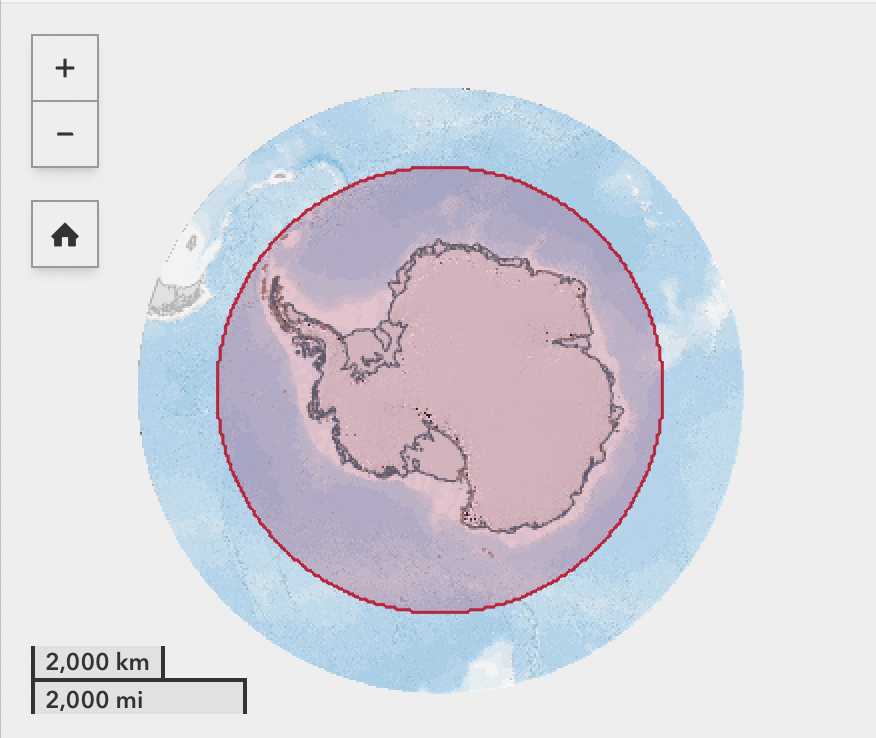
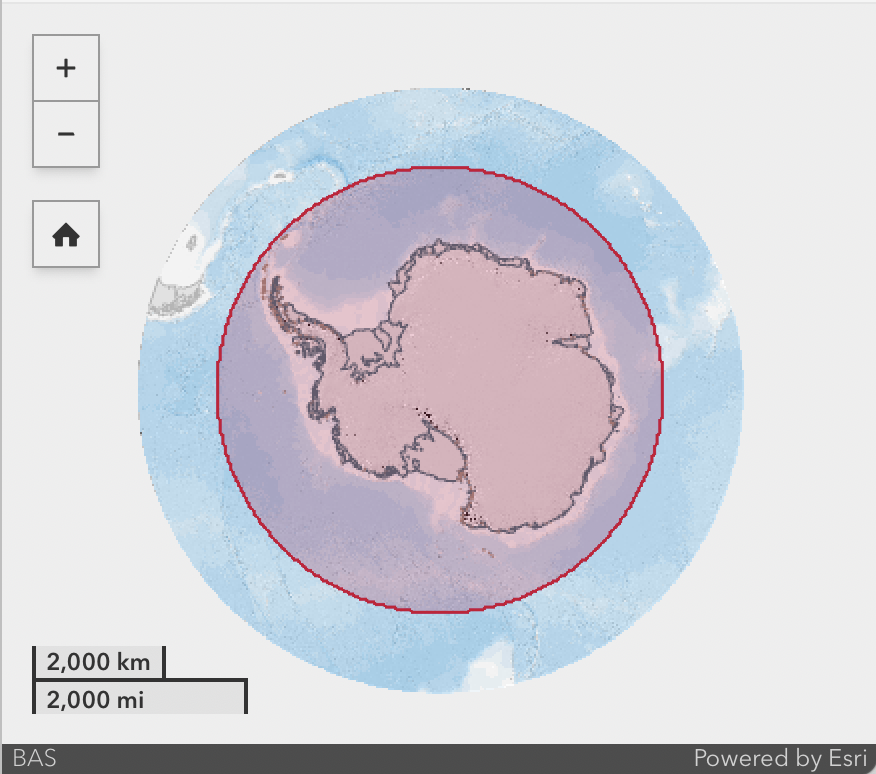
Minor docs improvements
Including updated screenshots.

diff --git a/README.md b/README.md
@@ -4,21 +4,24 @@ Embeddable maps for visualising simple features on a suitable basemap.
 
 ## Overview
 
-This service allows basic maps to be created using URL parameters. These maps:
+This service allows basic maps to be created using URL parameters.
 
-- can include a 3D locator globe
-- can include optional UI controls (such as full-screen mode)
-- can be focused on a given point, bounding box, or latest position of a BAS asset (ship, plane, etc.)
-- will use a suitable basemap for the map extent (e.g. an Antarctic stereographic basemap if in Antarctica)
-- can be embedded within other applications or websites using an iframe (to avoid large dependencies)
+Features include:
 
-|                                            |                                               |
-|--------------------------------------------|-----------------------------------------------|
-| ![example-antarctica](/docs/example-1.png) | ![example-ship-tracking](/docs/example-2.png) |
+- an optional 3D locator globe
+- optional interactive controls (such as toggling full-screen mode)
+- focusing on a given point, bounding box, or latest position of a BAS asset (ship, plane, etc.)
+- using suitable basemap and projection for the map extent (e.g. an Antarctic stereographic basemap if in Antarctica)
+- support for embedding within other applications or websites using an iframe (to avoid large dependencies)
 
-> [!TIP]
-> This service is operated by the [Mapping and Geographic Information Centre](https://www.bas.ac.uk/teams/magic) (MAGIC),
-> who provide geospatial resources, expertise and support to the [British Antarctic Survey](https://www.bas.ac.uk) (BAS).
+Examples:
+
+| ![example-antarctica](/docs/example-1.png)                                     | ![example-ship-tracking](/docs/example-2.png)                                                                              |
+|--------------------------------------------------------------------------------|----------------------------------------------------------------------------------------------------------------------------|
+| `https://embedded-maps.data.bas.ac.uk/v1/?bbox=%5B-180.0,-90.0,180.0,-60.0%5D` | `https://embedded-maps.data.bas.ac.uk/v1/?asset-id=01JDRYA29AR6PFGXVCZ40V8C74&scale=500000&globe-overview&ctrl-fullscreen` |
+
+This service is operated by the [Mapping and Geographic Information Centre](https://www.bas.ac.uk/teams/magic) (MAGIC),
+who provide geospatial resources, expertise and support to the [British Antarctic Survey](https://www.bas.ac.uk) (BAS).
 
 > [!NOTE]
 > This project is focused on needs within the British Antarctic Survey. It has been open-sourced in case it is
@@ -28,15 +31,21 @@ project members respectively. Contact the [Project Maintainer](#project-maintain
 ### Status
 
 > [!IMPORTANT]
-> This a beta service and is available for general use but may contain bugs. 
+> This a beta service and is available for general use but may contain bugs.
+>
 > We [welcome feedback](mailto:magic@bas.ac.uk) from users on how it can be made better.
 
 ## Usage
 
-The service is accessed via a URL endpoint with one or more URL parameters to specify the target location / feature /
-asset, UI controls and any other supported options:
+This service is accessed from a base endpoint and configured using one or more [Parameters](#parameters), including the 
+target location / feature / asset for the map and which UI controls are visible.
 
 Base endpoint: https://embedded-maps.data.bas.ac.uk/v1/
+
+Base endpoint for testing: https://embedded-maps-testing.data.bas.ac.uk/v1/
+
+> [!WARNING]
+> The test endpoint is used for prototyping upcoming changes and is not stable. Do not use it unless you are told to.
 
 ### Basemaps
 
@@ -45,11 +54,11 @@ A suitable basemap and projection is used based on the map extent:
 - For latitudes ≤ -60°, an Antarctic projection
 - For latitudes ≥ 60°, an Arctic projection
 - For latitudes between -60° and 60°, a World projection
-- For latitudes between -55.200717 to -53.641972 and longitudes between -38.643677 to -35.271423: a South Georgia projection
+- For latitudes between -55.200717 to -53.641972 and longitudes between -38.643677 to -35.271423, a South Georgia projection
 
 > [!TIP]
-> The basemaps ussed for these projections are created or recommended by [MAGIC](https://www.bas.ac.uk/teams/magic) 
-> for general use.
+> The basemaps ussed for these projections are either created or recommended by 
+> [MAGIC](https://www.bas.ac.uk/teams/magic) for general use.
 
 ### Parameters
 
@@ -187,15 +196,8 @@ Maps can be embedded in other applications and websites using an iframe.
 For example:
 
 ```html
-<iframe src="https://embedded-maps.data.bas.ac.uk/v1/?center=[-180, -90]&zoom=6&globe_overview=true" style="border:none;"></iframe>
+<iframe src="https://embedded-maps.data.bas.ac.uk/v1/?center=[-180, -90]" style="border:none;"></iframe>
 ```
-
-> [!NOTE]
-> Some websites or platforms (such as SharePoint) restrict which domains can be embedded and will need adjusting.
-> We recommend allowing both `https://embedded-maps.data.bas.ac.uk` and `https://embedded-maps-testing.data.bas.ac.uk`.
-
-> [!TIP]
-> These domains are already allowed for the Iceflow SharePoint site.
 
 > [!IMPORTANT]
 > If the fullscreen UI control is enabled, the `allowfullscreen` and `allow="fullscreen"` attributes must be included 
@@ -207,6 +209,13 @@ For example:
   style="border:none;" allowfullscreen="true" allow="fullscreen"
 ></iframe>
 ```
+
+> [!NOTE]
+> Some websites or platforms (such as SharePoint) restrict which domains can be embedded and will need adjusting.
+> We recommend allowing both `https://embedded-maps.data.bas.ac.uk` and `https://embedded-maps-testing.data.bas.ac.uk`.
+
+> [!TIP]
+> These domains are already allowed for the BAS Iceflow SharePoint site [🛡].
 
 ## Implementation
 
@@ -224,11 +233,8 @@ This service uses basemaps as determined by [MAGIC/esri#86 🛡](https://gitl
 
 [Terraform](https://terraform.io) resources are defined in [`provisioning/terraform/`](/provisioning/terraform/).
 
-> [!IMPORTANT]
-> Access to the [BAS AWS account 🛡](https://gitlab.data.bas.ac.uk/WSF/bas-aws) is required to provision these resources.
-
-> [!TIP]
-> Docker and Docker Compose are recommended but not required for running Terraform.
+Access to the [BAS AWS account 🛡](https://gitlab.data.bas.ac.uk/WSF/bas-aws) is required to provision these resources.
+Docker and Docker Compose are recommended but not required for running Terraform.
 
 ```shell
 $ cd provisioning/terraform
@@ -247,15 +253,12 @@ Changes to remote state will be automatically saved to the remote backend, there
 
 ##### Remote state authentication
 
-Permission to read and/or write remote state information for this project is restricted to authorised users. Contact
-the [BAS Web & Applications Team](mailto:servicedesk@bas.ac.uk) to request access.
-
-See the [BAS Terraform Remote State 🛡](https://gitlab.data.bas.ac.uk/WSF/terraform-remote-state) project for how these
-permissions to remote state are enforced.
+Permission to read and/or write remote state information for this project is restricted. See the 
+[BAS Terraform Remote State 🛡](https://gitlab.data.bas.ac.uk/WSF/terraform-remote-state) project for more information.
 
 ## Developing
 
-To set a local development environment (with Node.js installed):
+To set up a local development environment (with Node.js installed):
 
 ```shell
 npm install
@@ -315,7 +318,7 @@ To update reference screenshots:
 
 ## Deployment
 
-The application will be automatically deployed to an AWS S3 bucket using [Continuous Deployment](#continuous-deployment).
+The application will be automatically deployed using [Continuous Deployment](#continuous-deployment).
 
 ### Continuous Deployment
 
